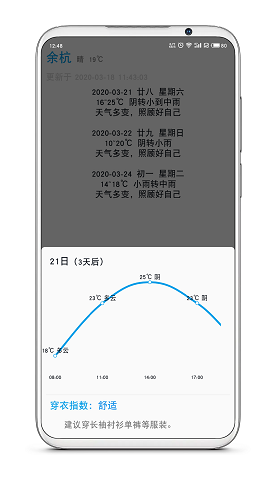
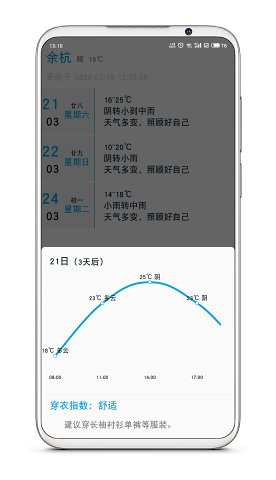
update screenshot

diff --git a/README.md b/README.md
@@ -8,6 +8,7 @@ https://www.coolapk.com/apk/com.weather
 - 实时天气
 - 桌面插件
 ## 应用截图
-![Image text](screenshot/main.jpg)
+![Image text](screenshot/main_1.jpg)
+![Image text](screenshot/main_2.jpg)
 ![Image text](screenshot/info.jpg)
 ![Image text](screenshot/setting.jpg)
